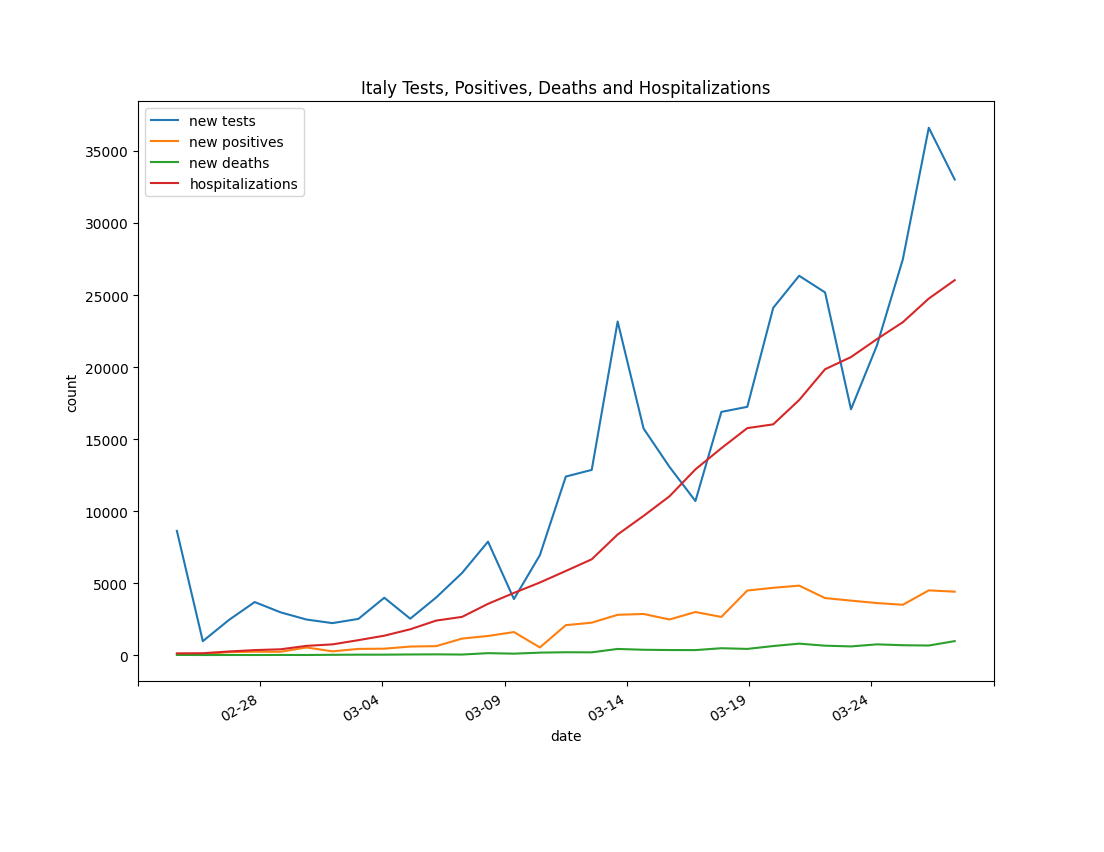
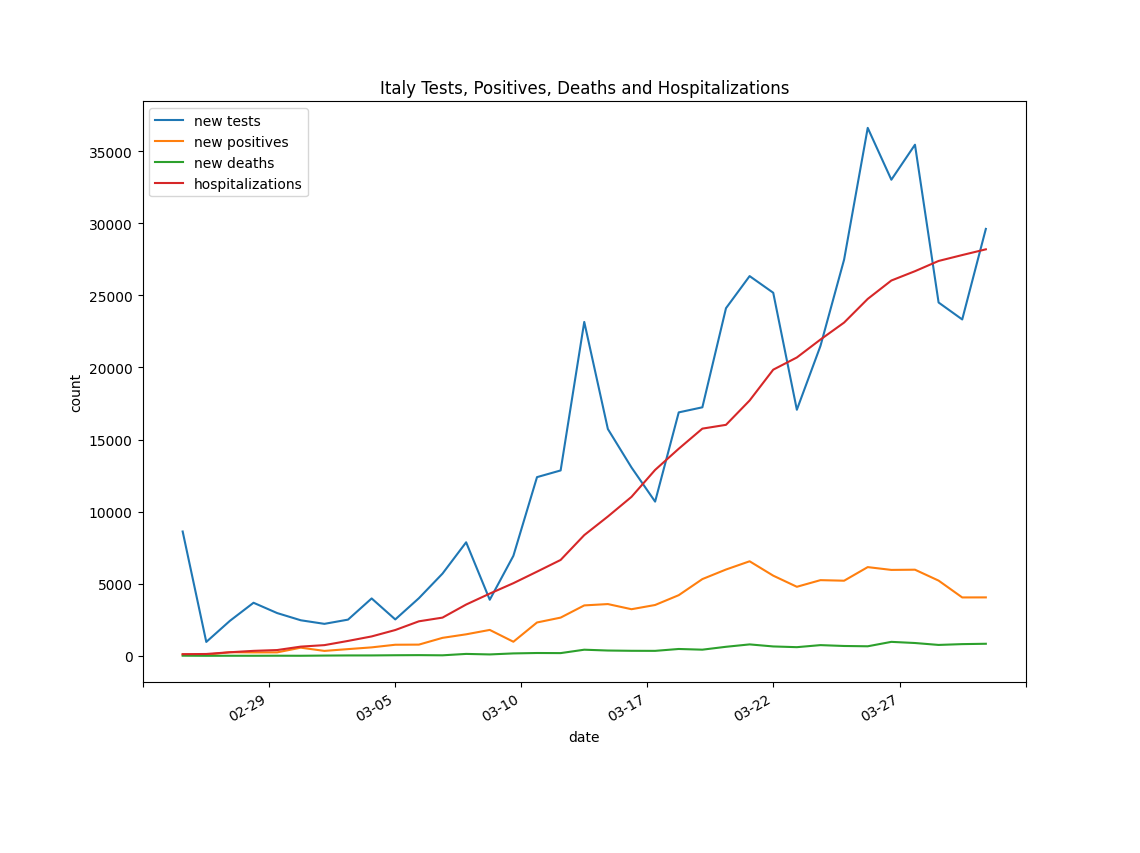
graphs

diff --git a/analyze-italy.py b/analyze-italy.py
@@ -21,8 +21,10 @@ for f in files:
                     {
                         "date": row['data'], # date
                         "total hospitalized": row['totale_ospedalizzati'],# total hospitlized
-                        "total currently positive": row['totale_attualmente_positivi'], # total currently positive
-                        "new positives": row['nuovi_attualmente_positivi'], # New positive
+                        "total currently positive": row['variazione_totale_positivi'],
+                        # "total currently positive": row['totale_attualmente_positivi'], # total currently positive
+                        # "new positives": row['nuovi_attualmente_positivi'], # New positive
+                        "new positives": row['nuovi_positivi'], # New positive
                         "hospitalized": row['ricoverati_con_sintomi'], # hospitalized with symptoms                        
                         "tests": row['tamponi'], # test
                         "deceased": row['deceduti'] # dead
